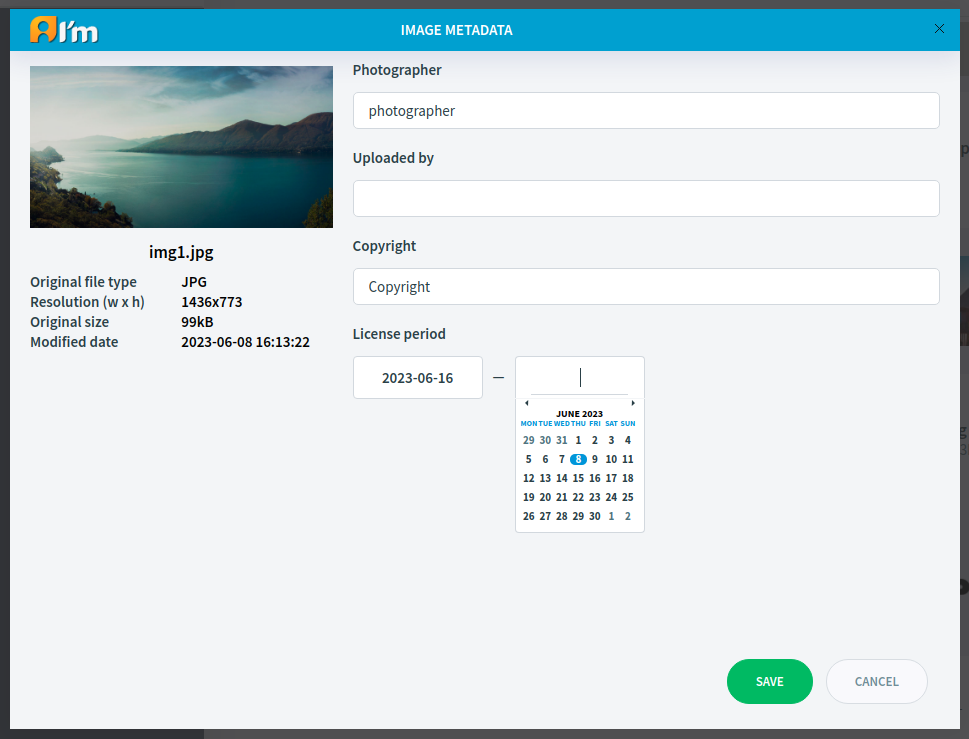
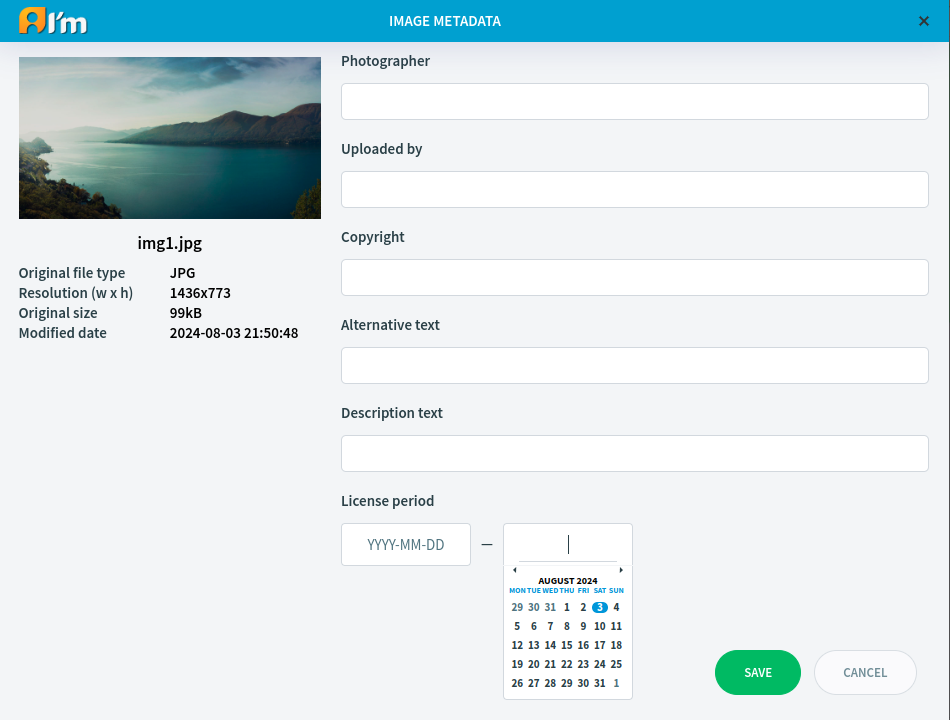
Issue IMCMS-730 Update documentation

diff --git a/docs/developer-documentation/design/tags/image-data.rst b/docs/developer-documentation/design/tags/image-data.rst
@@ -1,0 +1,29 @@
+Image Data Tag
+==============
+
+The *Image Data* tag represents the Alternate text and Description text.
+
+.. seealso:: Read also the :doc:`Image Attributes </user-documentation/editors/image/image-editor.html#image-attributes>` article.
+
+.. code-block:: jsp
+
+    <imcms:image:data no="100">
+        <div>
+            <b>Image data:</b>
+            <div>Image alternateText: ${alternateText}</div>
+            <div>Image descriptionText: ${descriptionText}</div>
+        </div>
+    </imcms:image:data>
+
+Available list of tag attributes:
+"""""""""""""""""""""""""""""""""
+
++---------------------+---------+------------------------------------------------------------------------------+
+| Attribute           | Type    |  Description                                                                 |
++=====================+=========+==============================================================================+
+| no                  | Integer | id of the current text (deprecated version).                                 |
++---------------------+---------+------------------------------------------------------------------------------+
+| document            | Integer | id of the document from which to take the text.                              |
++---------------------+---------+------------------------------------------------------------------------------+
+
+.. warning:: Image tag must have ``no`` attribute!

diff --git a/docs/user-documentation/editors/image/image-library.rst b/docs/user-documentation/editors/image/image-library.rst
@@ -6,6 +6,7 @@ In this article:
     - `Choose Image`_
     - `File Management`_
     - `Custom Metadata`_
+    - `Image Search`_
 
 .. |create| image:: _static/library/icon_folder_controll_create.png
 .. |edit| image:: _static/library/ic_text_editor.png
@@ -13,8 +14,10 @@ In this article:
 
 .. |check| image:: _static/library/icon_folder_controll_reverse_check.png
 
-.. |metadata| image:: _static/library/icon_metadata.png
+.. |metadata| image:: _static/library/icon_metadata.svg
     :height: 12pt
+
+.. |search| image:: _static/library/icon_image_search.png
 
 ------------
 Introduction
@@ -72,3 +75,12 @@ Custom Metadata
 ImCMS provides the ability to edit some metadata values. To do this, you have to click |metadata|.
 
 .. image:: _static/library/metadata-editor.png
+
+------------
+Image Search
+------------
+
+ImCMS provides the ability to search for images by name, path and metadata. To do this, click |search|.
+You can also select a filter.
+
+.. image:: _static/library/image_search.png

diff --git a/docs/developer-documentation/configuration.rst b/docs/developer-documentation/configuration.rst
@@ -213,6 +213,14 @@ Document
 
 .. code-block:: properties
 
+    # What url-prefix to map document-id:s to, relative to the context path.
+    # The default "/" makes the relative path to document 1001 be "/1001".
+    # With a context path of "/imcms/", the complete path to document 1001 then becomes "/imcms/1001".
+    # !NOTE if documentPathPrefix is not default - close it with slash.
+    DocumentPathPrefix=/
+
+.. code-block:: properties
+
     # Enable/disable document versioning feature.
     # Possible values: true, false.
     document.versioning=true
@@ -385,6 +393,7 @@ Solr/index
     # Remote SOLr server URL.
     # Type: Http(s) URL.
     SolrUrl =
+    ImageFilesMetadataSolrUrl =
 
 
     # The number of minutes between scheduled indexings, default 0 means no scheduled indexings.

diff --git a/docs/developer-documentation/requirements.rst b/docs/developer-documentation/requirements.rst
@@ -1,6 +1,6 @@
 System Requirements
 ===================
 
-* `Java 14 <https://www.oracle.com/cis/java/technologies/javase/jdk14-archive-downloads.html>`_ or higher
+* `Java 17 <https://www.oracle.com/java/technologies/javase/jdk17-archive-downloads.html>`_ or higher
 * `Tomcat 9 <https://tomcat.apache.org/download-90.cgi>`_ or higher
 * `MySQL 5.7 <https://downloads.mysql.com/archives/community>`_ or higher

diff --git a/docs/developer-documentation/solr.rst b/docs/developer-documentation/solr.rst
@@ -36,8 +36,9 @@ But ImCMS support remote Solr server and all that is needed is put url address t
 
 	# Remote SOLr server URL
 	# Type: Http(s) URL; optional
-	# Unless specified imCMS uses embedded SOLr server.
+	# Unless specified imCMS uses embedded Solr server.
 	SolrUrl=
+	ImageFilesMetadataSolrUrl=
 
 ----------------
 Index Management

diff --git a/docs/user-documentation/editors/image/image-editor.rst b/docs/user-documentation/editors/image/image-editor.rst
@@ -163,6 +163,8 @@ Image Attributes
 
 .. image:: _static/editor/alt-text-example.png
 
+**Description text** - the text that can be be displayed in :doc:`Image Data tag </developer-documentation/design/tags/image-data>`.
+
 **Image link** - the link that will open in a new tab if the user clicks on the image.
 
 ********

diff --git a/docs/developer-documentation/design/tags/index.rst b/docs/developer-documentation/design/tags/index.rst
@@ -7,6 +7,7 @@ Tags
     admin
     text
     image
+    image-data
     menu
     loop
     metadata
